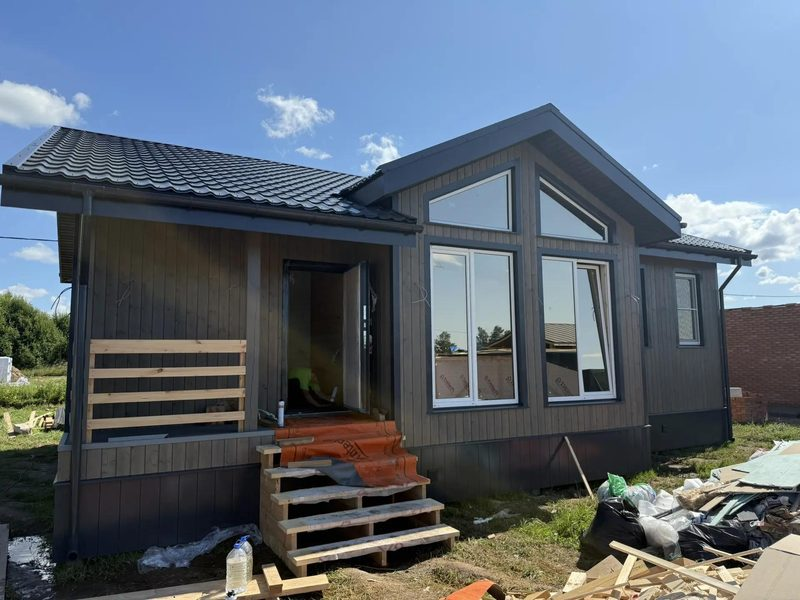
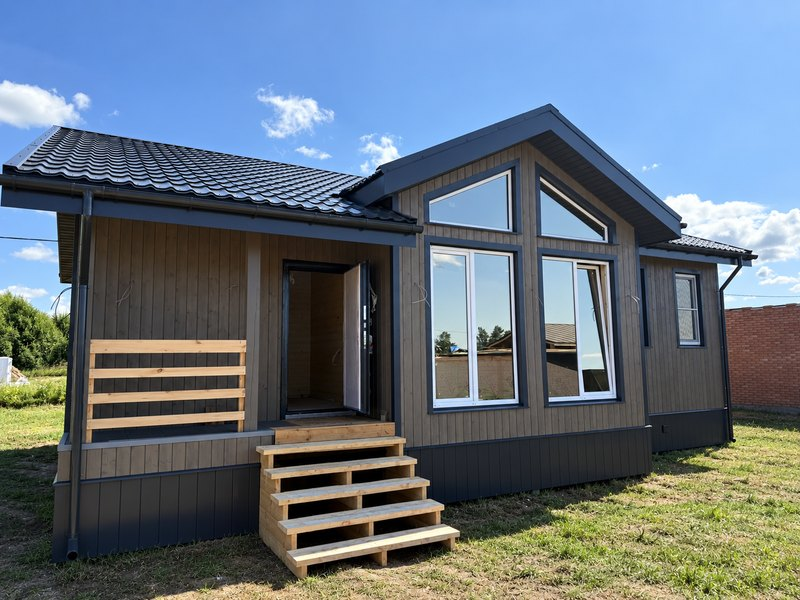
Проект №2: обложка заменена кадром без строительного мусора
Заказчик прислал тот же ракурс фасада с убранными завалами обрезков
и упаковки — снимок ретуширован, небо на нём тоже заменено. Он встал
вместо proekt-2-foto-01: это и обложка плитки на главной и в портфолио,
и первый кадр в группе «Снаружи» на странице объекта.

Исходный размер 1448×1086 сохранён как крупный вариант, рядом
уменьшенный до 800 px.

Все проверки пройдены: 42 сценария, 37 страниц, визуальных
дефектов нет.

Claude-Session: https://claude.ai/code/session_013uMwpcoUpj3oHjZF176FcY

diff --git a/dist/obekty/proekt-2/index.html b/dist/obekty/proekt-2/index.html
@@ -137,7 +137,7 @@
           <h2 class="shots-group__title">Снаружи<span>8</span></h2>
           <div class="shots shots--rows">
             <div class="shots__row" style="--sum:3.42">
-            <figure style="--a:1.333"><img src="/assets/img/photos/proekt-2-foto-01-800.jpg" srcset="/assets/img/photos/proekt-2-foto-01-800.jpg 800w, /assets/img/photos/proekt-2-foto-01.jpg 1700w" sizes="(min-width: 1000px) 40vw, 92vw" alt="Проект №2, фото 1" loading="eager" width="1800" height="1350" data-zoom="/assets/img/photos/proekt-2-foto-01.jpg" data-zoom-group="proekt-2-all"></figure>
+            <figure style="--a:1.333"><img src="/assets/img/photos/proekt-2-foto-01-800.jpg" srcset="/assets/img/photos/proekt-2-foto-01-800.jpg 800w, /assets/img/photos/proekt-2-foto-01.jpg 1700w" sizes="(min-width: 1000px) 40vw, 92vw" alt="Проект №2, фото 1" loading="eager" width="1448" height="1086" data-zoom="/assets/img/photos/proekt-2-foto-01.jpg" data-zoom-group="proekt-2-all"></figure>
             <figure style="--a:0.750"><img src="/assets/img/photos/proekt-2-foto-02-800.jpg" srcset="/assets/img/photos/proekt-2-foto-02-800.jpg 800w, /assets/img/photos/proekt-2-foto-02.jpg 1700w" sizes="(min-width: 1000px) 40vw, 92vw" alt="Проект №2, фото 2" loading="eager" width="1800" height="2400" data-zoom="/assets/img/photos/proekt-2-foto-02.jpg" data-zoom-group="proekt-2-all"></figure>
             <figure style="--a:1.333"><img src="/assets/img/photos/proekt-2-foto-03-800.jpg" srcset="/assets/img/photos/proekt-2-foto-03-800.jpg 800w, /assets/img/photos/proekt-2-foto-03.jpg 1700w" sizes="(min-width: 1000px) 40vw, 92vw" alt="Проект №2, фото 3" loading="lazy" width="1800" height="1350" data-zoom="/assets/img/photos/proekt-2-foto-03.jpg" data-zoom-group="proekt-2-all"></figure>
             </div>
